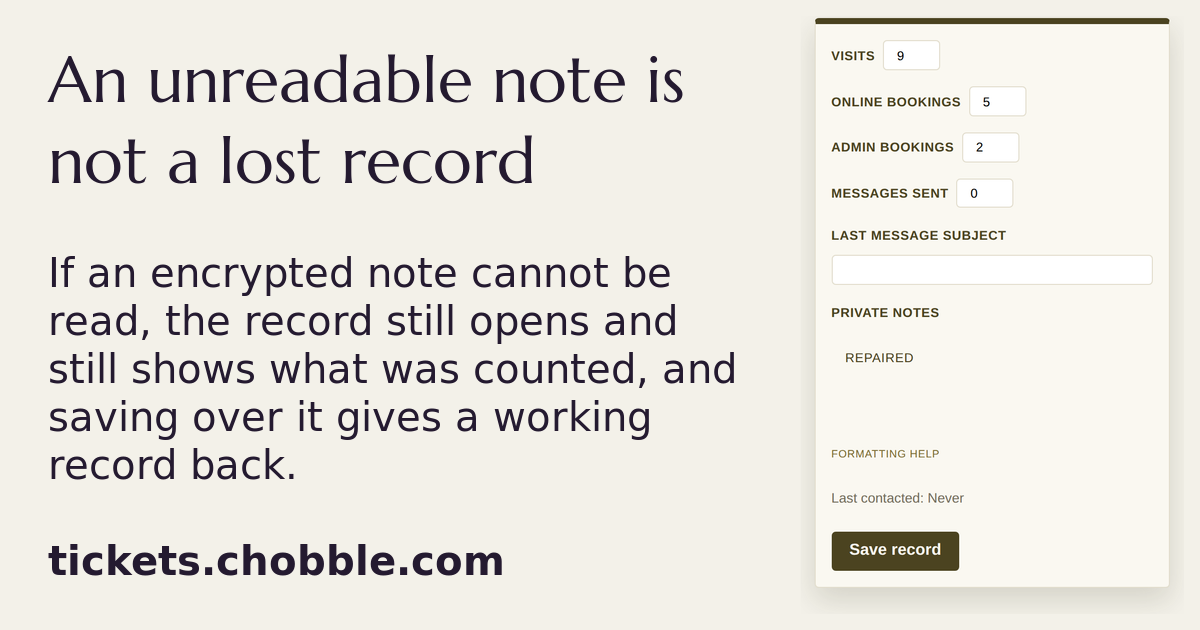
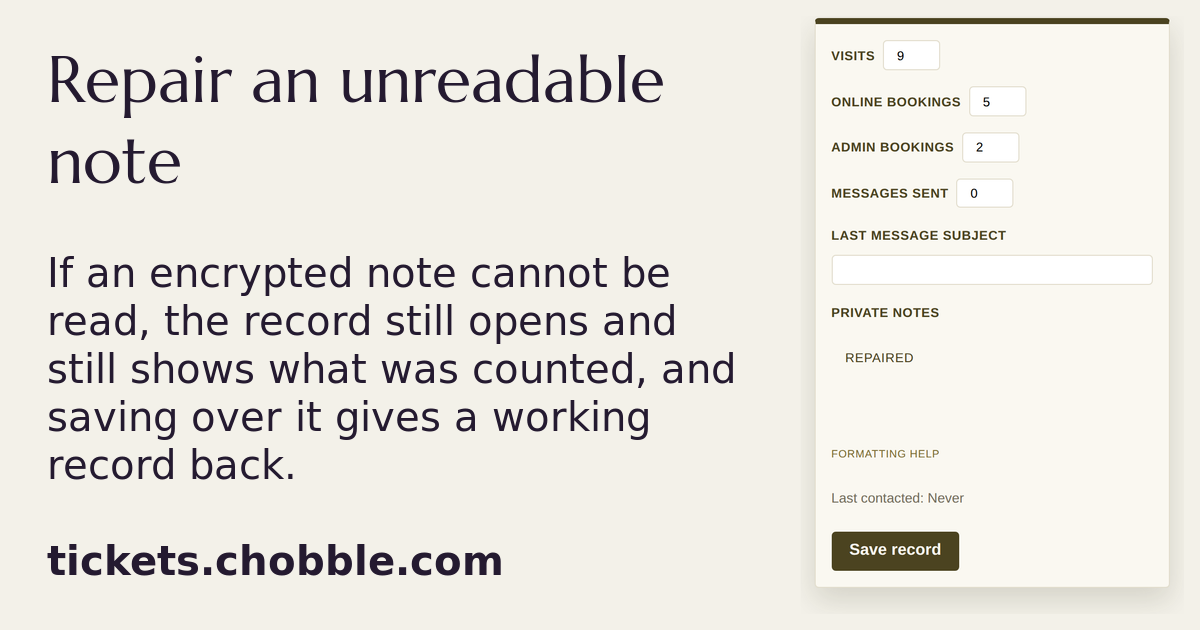
Back the multi-day and record-put-right cards with facts
The multi-day card says covered days use capacity when payment is
confirmed, which is a claim about paid checkout that neither of its
facts covered. It now cites the capacity-after-payment case that
place-lost-while-paying already uses.

The record-put-right card says nobody but the organiser reads the note.
Its one fact only established that the counts and the note can be
edited, so it gains the private-note fact the manual-attendee record
carries.

The repaired-record heading set something up to knock it down, which
the content guide bans. Heading and page copy both state the result:
the record still opens, still shows its counts, and saving over it
gives a working note back.

Claude-Session: https://claude.ai/code/session_01Sy7Q7X9UJsKKyCP9FCAtqK

diff --git a/facts/social-images.js b/facts/social-images.js
@@ -426,6 +426,12 @@ export const SOCIAL_IMAGE_FACTS = {
         "../tickets/specs/bookings/changing-how-long-a-stay-lasts.feature:13-25",
       ],
     },
+    {
+      fact: "A paid checkout does not hold a place. Capacity is used when the payment confirmation arrives, so two customers can both reach the payment page for the last one.",
+      sources: [
+        "../tickets/specs/payments/capacity-after-payment.feature:5-16",
+      ],
+    },
   ],
   "oakfield-public-website": [
     {
@@ -563,6 +569,13 @@ export const SOCIAL_IMAGE_FACTS = {
       fact: "The counts a contact record holds and the private note kept against it can both be corrected by the organiser, and what they save is what the record then reports.",
       sources: [
         "../tickets/specs/attendees/the-record-kept-about-someone.feature:38-48",
+      ],
+    },
+    {
+      fact: "The record is filed under a one-way code made from the email address, and carries a private note only the organiser reads.",
+      sources: [
+        "../tickets/src/shared/db/contact-preferences.ts:55-56",
+        "../tickets/specs/attendees/the-record-kept-about-someone.feature:5-11",
       ],
     },
   ],

diff --git a/scripts/social-screenshot-copy.js b/scripts/social-screenshot-copy.js
@@ -148,7 +148,7 @@ export const SOCIAL_SCREENSHOT_COPY = {
     body: "The counts a record holds and the note kept against it are yours to correct, and nobody but the organiser reads the note.",
   },
   "record-repaired": {
-    heading: "An unreadable note is not a lost record",
+    heading: "Repair an unreadable note",
     body: "If an encrypted note cannot be read, the record still opens and still shows what was counted, and saving over it gives a working record back.",
   },
   "refunded-booking": {

diff --git a/pages/features/encrypted.md b/pages/features/encrypted.md
@@ -119,9 +119,9 @@ blocks:
       [who can see your attendee data](/features/who-can-see-your-data/)
       for a list of every company that can access your attendees'
       information.
-      A record whose note cannot be read is not a lost record. The page still
-      opens and still shows the counts, which are kept in plain sight, and
-      saving over it gives a working note back without losing what was counted.
+      A record whose note cannot be read still opens, and still shows the
+      counts, which are kept in plain sight. Saving over it gives a working
+      note back without losing what was counted.
     figure_src: /images/screenshots/record-repaired.png
     figure_alt: A screenshot of a contact record that opened after its note could not be read, still showing 9 visits and 5 online bookings, with a note reading Repaired
     figure_caption: 'When the private note cannot be read, the record still opens and still shows the counts, and saving over it gives a working record back. <small><a href="https://github.com/chobbledotcom/tickets/blob/main/specs/attendees/the-record-kept-about-someone.feature">(src)</a></small>'
